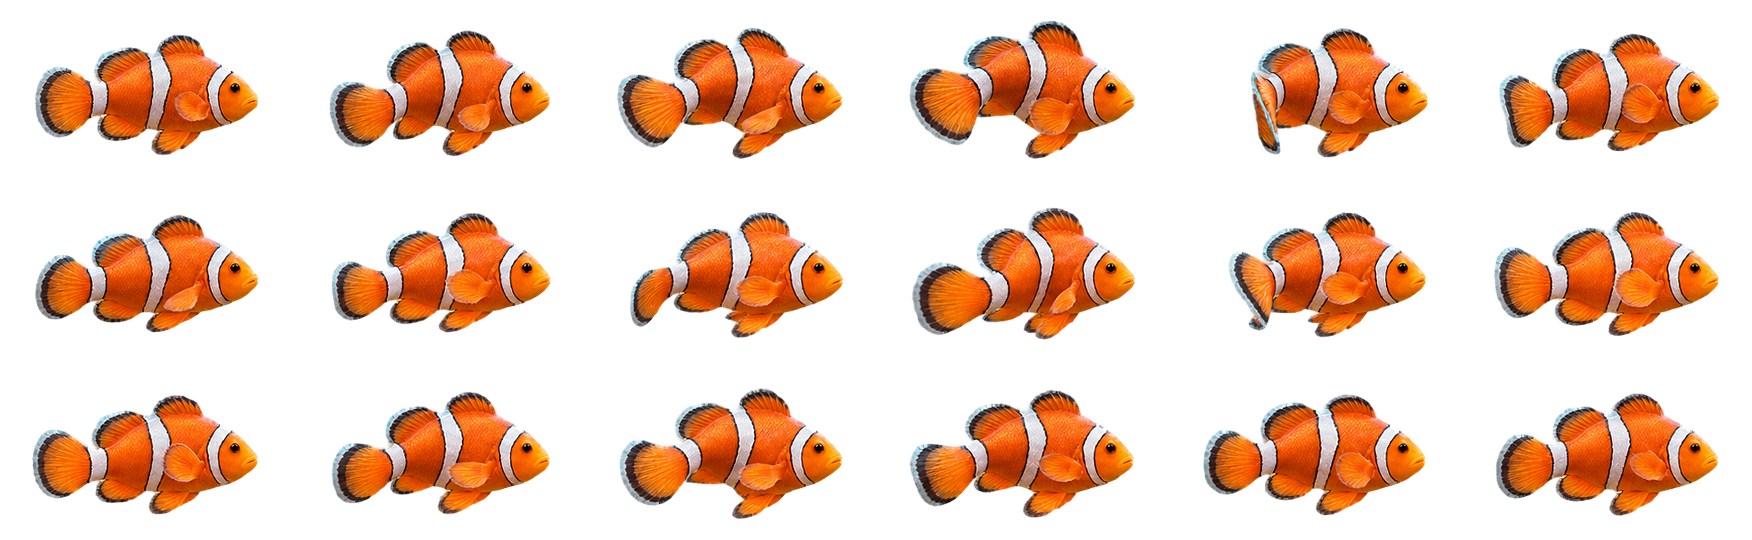
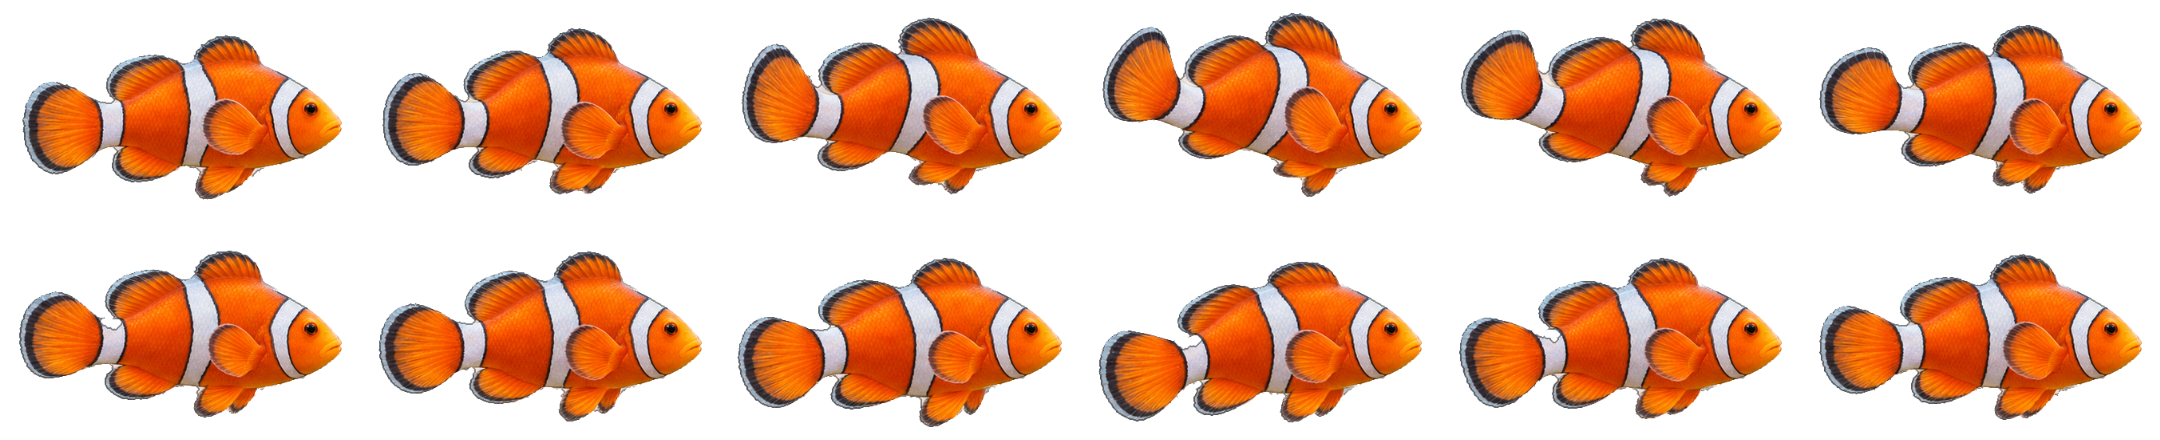
v1.11.1: smooth clownfish cycle + per-fish color variation

diff --git a/index.html b/index.html
@@ -263,7 +263,7 @@ const LIFE={
   // all padded (>=8% clear alpha on every side), school white-patch fixed. Dims/fps/atlas
   // from animation_manifest_v3.json. s tuned to hold ~the same on-screen size as v2.
   fish:[
-    {f:"fish_clownfish_atlas.png",    fw:292,fh:180,n:18,fps:13.5, cols:6,rows:3, s:.99,  band:[.12,.40], spd:70},
+    {f:"fish_clownfish_atlas.png",    fw:360,fh:220,n:12,fps:9,    cols:6,rows:2, s:.80,  band:[.12,.40], spd:70},  // reverted to smooth v2 cycle (v3's 18 poses pitched inconsistently -> fluttery)
     {f:"fish_bluetang_atlas.png",     fw:260,fh:164,n:18,fps:12,   cols:6,rows:3, s:.96,  band:[.34,.56], spd:62},
     {f:"fish_angelfish_atlas.png",    fw:342,fh:244,n:18,fps:9,    cols:6,rows:3, s:.88,  band:[.46,.66], spd:50},
     {f:"fish_yellow_small_strip.png", fw:130,fh:90, n:18,fps:15,                  s:1.15, band:[.10,.34], spd:82, pair:true},
@@ -332,6 +332,8 @@ function Fish(sp){ this.sp=sp; this.im=gimg(sp.f);
 Fish.prototype.sc=function(){ return this.sp.s*(.5+.55*this.depth)*CS; };   // live scale (CS may change on resize)
 Fish.prototype.respawn=function(t){ const sp=this.sp;
   this.depth=rnd(.3,1); this.dir=(Math.random()<.5?1:-1);
+  // per-individual colour variation so repeats of a species never look identical ("clipart")
+  this.hue=rnd(-16,16); this.bri=(.9+rnd(0,.2)).toFixed(3); this.sat=(.86+rnd(0,.28)).toFixed(3);
   const b=sp.band||[.3,.7]; this.baseY=rnd(b[0],b[1])*CH;
   this.ampY=(sp.flat?rnd(.002,.007):rnd(.015,.04))*CH; this.freqY=rnd(.15,.35); this.phaseY=rnd(0,6.28);
   const hw=sp.fw*this.sc()*.5; this.x=(this.dir>0)?-hw-20:CW+hw+20; this.y=this.baseY;
@@ -349,7 +351,9 @@ Fish.prototype.draw=function(t){ if(this.state!=="swim") return;
   let sx,sy; if(sp.cols){ sx=(fi%sp.cols)*sp.fw; sy=((fi/sp.cols)|0)*sp.fh; } else { sx=fi*sp.fw; sy=0; }
   const scale=this.sc(), alpha=(.55+.45*this.depth)*(sp.dim||1);
   const vy=this.ampY*this.freqY*Math.cos(t*this.freqY+this.phaseY), tilt=Math.atan2(vy,80)*.5*this.dir;
-  cx.save(); cx.globalAlpha=alpha; cx.translate(this.x,this.y); cx.rotate(tilt);
+  cx.save(); cx.globalAlpha=alpha;
+  cx.filter="hue-rotate("+this.hue+"deg) brightness("+this.bri+") saturate("+this.sat+")";
+  cx.translate(this.x,this.y); cx.rotate(tilt);
   cx.scale(this.dir*scale, scale);
   // inset the source rect by 0.5px so bilinear sampling can't bleed the neighbouring atlas frame
   cx.drawImage(im, sx+0.5,sy+0.5, sp.fw-1,sp.fh-1, -sp.fw/2,-sp.fh/2, sp.fw,sp.fh); cx.restore(); };
